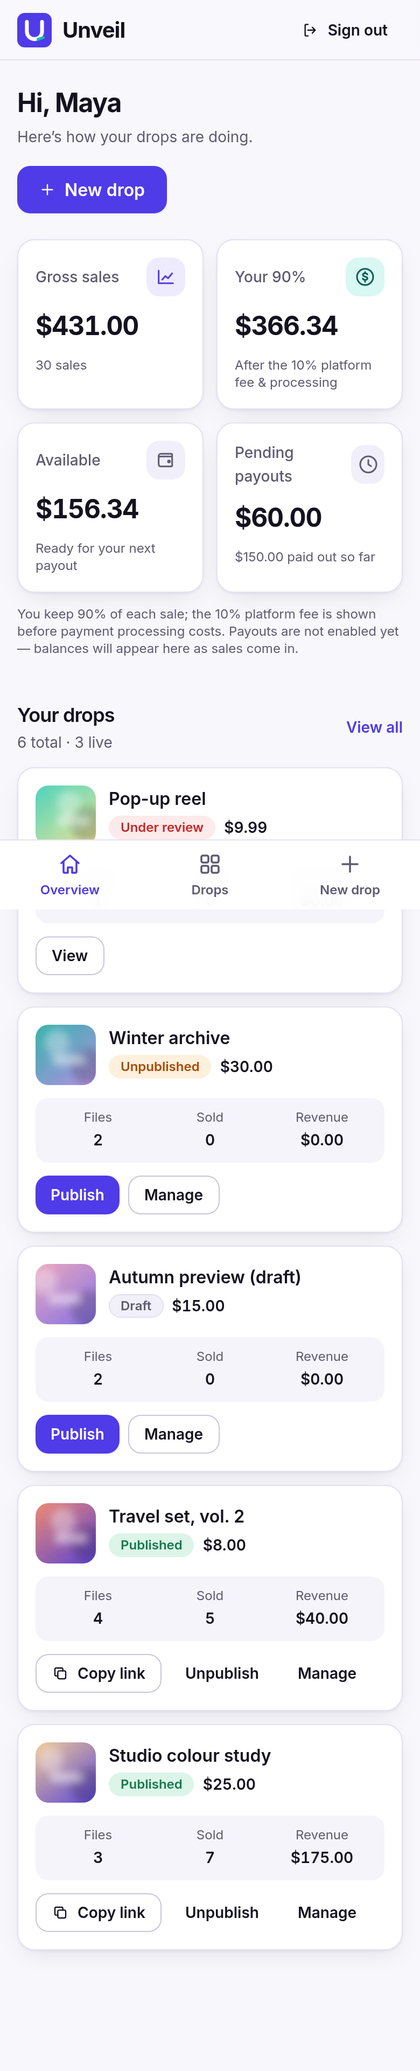
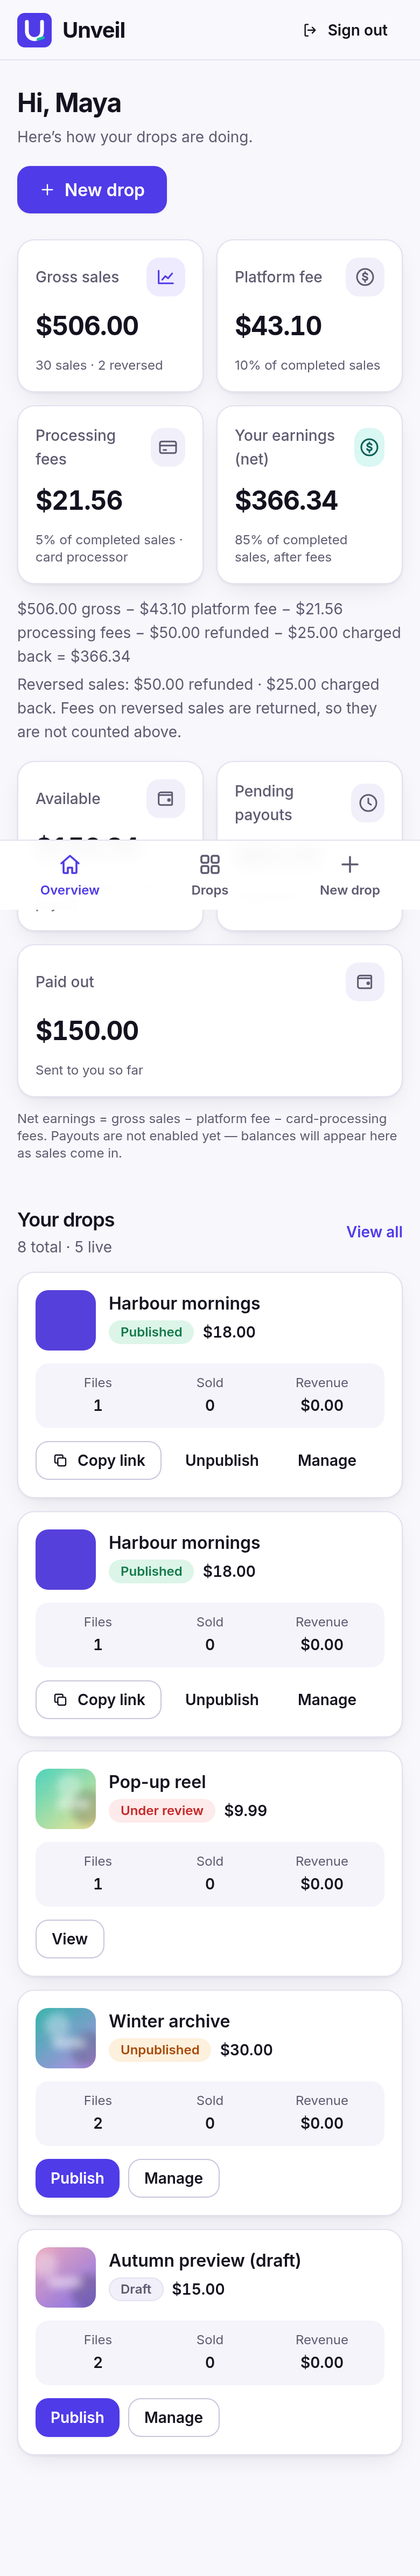
docs/tests/screenshots: QA follow-up notes, e2e checks, retaken screenshots
What changed (FE-01..FE-06 + placeholders; see docs/frontend-dashboard-notes.md "QA follow-up"):
- FE-01 earnings breakdown (gross / platform fee / processing fees / net, available / pending / paid out; refunded and
  charged back shown separately; no hard-coded 90%).
- FE-02 modal returns focus to trigger. FE-03 buyer title '<drop> · Unveil'. FE-04 Verified badge tied to
  sellers.verification_status. FE-05 durations '58 min' / '1 h 12 min'. FE-06 /design 404 in production unless
  ENABLE_DESIGN_PAGE=1. /terms /privacy /dmca /contact 'Coming soon' placeholders (noindex, no legal text).
- Tests: tests/frontend-earnings.test.ts (money breakdown + duration); e2e +1 check (titles, badge toggle, /design 404,
  placeholders). Screenshots retaken: dashboard-overview, drop-unpublish-confirm, drop-publish-attestation-dialog;
  new: signup-429-long-wait, buyer-429-long-wait, placeholder-terms, placeholder-privacy.

How to verify:
  npm ci && npx next typegen && npx tsc --noEmit && npm run lint && npm run build && npm test   (61 unit tests)
  npm run e2e   (47/47; run with no RATE_LIMIT_*/LOGIN_DELAY* in .env)
  Seed: BASE_URL=http://localhost:3400 npx tsx scripts/seed-demo.ts, sign in as maya -> /dashboard:
  $506.00 gross - $43.10 - $21.56 - $50.00 refunded - $25.00 charged back = $366.34 net; Available $156.34; Pending $60.00; Paid $150.00.
  curl -s -o /dev/null -w '%{http_code}' localhost:PORT/design -> 404 in production (200 with ENABLE_DESIGN_PAGE=1).
[…]

diff --git a/scripts/e2e.ts b/scripts/e2e.ts
@@ -610,6 +610,28 @@ const sha = (b: Buffer) => crypto.createHash("sha256").update(b).digest("hex");
     assert(h2.includes("3 files: 3 images"), "3 files wording");
     return "page: title, 'by E2E Seller', '1 file: 1 image', $15.00; 3-file drop shows '3 files: 3 images'";
   });
+  await check("[FE-03/04/06 + placeholders] buyer title '<drop> · Unveil'; Verified badge follows sellers.verification_status; /design 404 in prod; /terms etc. are noindex 'Coming soon'", async () => {
+    const title = (h: string) => (/<title>([^<]*)<\/title>/.exec(h)?.[1] ?? "").replace(/&amp;/g, "&");
+    const h = await (await anon.req("GET", `/u/${p2Link}`)).text();
+    eq(title(h), "Trio · Unveil", "buyer title");
+    assert(h.includes("Verified creator"), "badge for a verified seller");
+    const mail = `multi+${stamp}@example.test`;
+    await db.query("UPDATE sellers SET verification_status='pending' WHERE email=$1", [mail]);
+    const h2 = await (await anon.req("GET", `/u/${p2Link}`)).text();
+    assert(!h2.includes("Verified creator"), "badge hidden once the seller is no longer verified");
+    await db.query("UPDATE sellers SET verification_status='verified' WHERE email=$1", [mail]);
+    const nf = await anon.req("GET", "/u/doesnotexist1");
+    eq(nf.status, 404, "unknown link");
+    eq(title(await nf.text()), "Link unavailable · Unveil", "not-found title");
+    eq((await anon.req("GET", "/design")).status, 404, "/design hidden in production");
+    for (const path of ["/terms", "/privacy", "/dmca", "/contact"]) {
+      const r = await anon.req("GET", path);
+      eq(r.status, 200, `${path} status`);
+      const t = await r.text();
+      assert(t.includes("Coming soon") && /<meta name="robots" content="noindex/.test(t), `${path} placeholder + noindex`);
+    }
+    return "titles ok; badge toggles with verification_status; /design 404; 4 placeholder pages noindex";
+  });
   await check("[#5 M2-09] noindex: meta robots + X-Robots-Tag on link page / public API / previews; robots.txt disallows /u/", async () => {
     const r = await anon.req("GET", `/u/${publicLinkId}`);
     eq(r.headers.get("x-robots-tag"), "noindex, nofollow", "X-Robots-Tag on page");

diff --git a/docs/frontend-dashboard-notes.md b/docs/frontend-dashboard-notes.md
@@ -13,8 +13,9 @@ npm run migrate
 npm run build && bash scripts/dev-start.sh 3400     # or: npm run dev -- -p 3400   (3000 may be taken by another agent)
 npx tsx scripts/seed-demo.ts      # creates 3 sellers via the real API (+ SQL for sales/payouts/flagged) -> .e2e/seed.json
 node scripts/screenshots-dashboard.mjs              # re-takes every screenshot into screenshots/dashboard/
-npm run lint && npm run build && npm test           # all pass;  npm run e2e  (backend regression) still 46/46
+npm run lint && npm run build && npm test           # all pass;  npm run e2e  (backend regression + FE-03/04/06 checks) 47/47
 ```
+`/design` is a 404 in production builds unless `ENABLE_DESIGN_PAGE=1` — start the screenshot server with `ENABLE_DESIGN_PAGE=1 bash scripts/dev-start.sh 3400`.
 Optional `.env` knobs used while capturing screenshots: `LOGIN_DELAY_THRESHOLD=3`, `LOGIN_DELAY_BASE_SECONDS=20`, `LOGIN_DELAY_CAP_SECONDS=60`
 (so the progressive login delay is easy to reach) and relaxed `RATE_LIMIT_LOGIN_IP/SIGNUP_IP/CHECKOUT`.
 `seed-demo` logins: `maya+…@example.test` (verified, populated), `sam+…` (new, empty state), `jo+…` (pending, one draft); password `Sunrise-Harbor-4821` (printed + in `.e2e/seed.json`).
@@ -30,11 +31,11 @@ Wrong password 4× on one email → 429 `login_delayed` → countdown on the but
 | `/signup`, `/login` | Split layout (brand panel on desktop). Inline validation on blur/submit, show/hide password, live strength meter + checklist of the backend's *cheap* rules (≥10 chars, not email/name, no repeats/sequences), server `weak_password` message shown verbatim and marks the meter "Too common"; `email_taken`; generic wrong-credentials message (same for unknown email); network errors; `aria-live` errors, focus moves to the first invalid field / error summary; Google button only if configured. |
 | 429 handling (all auth forms) | `Retry-After` parsed (seconds or HTTP-date) → submit disabled, label becomes "Try again in Ns", visible countdown card, one polite SR announcement at start and end. Distinguishes `login_delayed` (progressive delay) vs `rate_limited`. |
 | `/forgot-password`, `/reset-password` | Same shell/validation/throttle; reset shows strength meter, handles `invalid_token` ("Link expired"), missing token, weak server password. |
-| `/dashboard` | Responsive shell (sidebar ≥1024px; top bar + bottom tab nav on mobile; skip link; sign-out). Earnings cards: **Gross sales**, **Your {100−fee_percent}%** (fee from `platform_settings.fee_percent`, default 10 → "Your 90%"), **Available**, **Pending payouts** (+ paid-out hint). Verification banner, drops table (desktop) / cards (mobile), loading skeleton (`loading.tsx`), error boundary, not-found. |
+| `/dashboard` | Responsive shell (sidebar ≥1024px; top bar + bottom tab nav on mobile; skip link; sign-out). Earnings (see *QA follow-up* below): **Gross sales**, **Platform fee**, **Processing fees**, **Your earnings (net)** + a reconciliation line, then **Available**, **Pending payouts**, **Paid out**. Verification banner, drops table (desktop) / cards (mobile), loading skeleton (`loading.tsx`), error boundary, not-found. |
 | `/dashboard/drops` | Full list with status tabs (All / Published / Drafts / Unpublished / Under review) and counts. Per-drop: thumbnail (blurred preview), status badge (`draft`, `published`, `unpublished`, `flagged`→"Under review"), price, files, **units + revenue**, *Copy link* (published), *Publish* (draft/unpublished; opens attestation dialog), *Unpublish* (confirm modal), *Manage*. |
 | `/dashboard/drops/new` | Title / price (limits from `platform_settings`, live) / description; drag-and-drop + picker; per-file validation (JPG/PNG/WebP, 15 MB image cap from settings, 10 files, 2 GB/drop, duplicates; MP4 recognised but blocked with a "coming soon" message because the backend has no video upload); per-file `XMLHttpRequest` progress bars; retry per file; optional "publish right after upload" with the 3 required attestations (`over18`, `ownsRights`, `consentOfSubjects`); success state with `unveil.link/u/<id>` + copy; graceful draft fallback when the seller isn't verified. |
 | `/dashboard/drops/[id]` | Rebuilt editor: status, share link, stats, blurred previews with sizes, add-more-files dropzone (same validation/progress), publish/unpublish. |
-| `/u/[linkId]` | Landing-style buyer page, mobile-first: blurred hero + thumbnails, lock badge, "Verified creator" badge, title, seller name, description, file count/types, price, terms checkbox, **Buy** button, trust points (secure checkout / instant download / no account), "All sales are final". **Buy stays stubbed**: it calls the existing `POST /api/checkout` (rate-limited, 501) and shows a friendly "Checkout is in test mode — nothing was charged" notice; 429 → countdown on the button. Branded `not-found` ("This link isn't available") also covers unpublished/draft/flagged. |
+| `/u/[linkId]` | Landing-style buyer page, mobile-first: blurred hero + thumbnails, lock badge, "Verified creator" badge (only while the seller is currently `verified`), title, seller name, description, file count/types, price, terms checkbox, **Buy** button, trust points (secure checkout / instant download / no account), "All sales are final". **Buy stays stubbed**: it calls the existing `POST /api/checkout` (rate-limited, 501) and shows a friendly "Checkout is in test mode — nothing was charged" notice; 429 → countdown on the button. Branded `not-found` ("This link isn't available") also covers unpublished/draft/flagged. |
 | Download page | **No such route exists** in the backend (no orders, no buyer signed-URL minting). A presentational `components/buyer/DownloadPanel` is designed and shown on `/design` (and screenshotted) so wiring is trivial once an order flow exists. |
 | `/design` | New sections: Alerts, Stat cards, Progress & skeleton, Tabs & table, Modal/Toast/Checkbox, Empty state, Password strength, Download panel. |
 
@@ -45,7 +46,7 @@ App components: `components/auth/*` (AuthShell, PasswordInput, PasswordStrength,
 ## Backend API gaps / mismatches found (not fixed — out of scope)
 1. **No earnings/payouts/stats API.** No `GET /api/earnings`, `/api/payouts`, `/api/transactions`, or per-drop stats. The dashboard reads aggregates directly from `transactions`/`payouts` in a server component (`src/app/dashboard/data.ts`) — nothing writes those tables yet, so real accounts show $0. Swap for a fetch once an endpoint exists.
 2. **No views counter anywhere** — only units/revenue (from `transactions`) are shown; "views" are omitted.
-3. **`fee_percent` is not exposed by `GET /api/settings`**; the dashboard reads `platform_settings` server-side. Suggest adding `feePercent` to `/api/settings`. Also `transactions.platform_fee_cents`/`processing_fee_cents` are never computed (no fee logic). Labels use "Your {100−fee}%" with the 10% default.
+3. **`fee_percent` is not exposed by `GET /api/settings`**; the dashboard reads `platform_settings` server-side. Suggest adding `feePercent` to `/api/settings`. Also `transactions.platform_fee_cents`/`processing_fee_cents` are never computed (no fee logic). (Superseded: the dashboard no longer hard-codes any percentage — see QA follow-up.)
 4. **Video upload not implemented** (`/api/drops/:id/files` is images-only, 15 MiB cap from `max_image_size_bytes`; `max_video_size_bytes` 500 MiB exists but unused; `/api/settings` doesn't return it). UI accepts `.mp4` selection but blocks it with a clear message (`videoUploadEnabled` flag in `lib/upload-limits.ts`). The spec "500 MB/file" currently only applies to video; **images are capped at 15 MB** on the backend.
 5. **No checkout / order / buyer-download flow** (`POST /api/checkout` → 501). The "self-declared checkbox for flagged drops" is not required by the backend: `/u/<id>` 404s for anything not `published` (flagged included), so no such checkbox is rendered; the terms/"all sales final" checkbox is client-side only (nothing stored).
 6. **Publish requires verification** (`verification_required` 403) and there is no verification flow/UI backend (only `npm run verify-seller`); the UI explains this and keeps drops as drafts.
@@ -53,9 +54,25 @@ App components: `components/auth/*` (AuthShell, PasswordInput, PasswordStrength,
 8. `GET /api/drops` returns snake_case rows without `units/revenue/views/thumbnail`; `GET /api/drops/:id` omits `public_link_id`-based URL. `POST …/files` is buffered in memory and has no progress/resume (client uses XHR upload progress).
 9. `Drop` list/`/api/drops/:id` do not expose `published_at` or attestation info.
 10. `next.config.ts` CSP has `upgrade-insecure-requests` in production builds: on plain `http://localhost` this makes Chromium retry some sub-requests/prefetches over https (harmless, but breaks `networkidle` waits and shows `ERR_SSL_PROTOCOL_ERROR` in the console when testing a prod build locally).
-11. `/terms`, `/privacy`, `/dmca`, `/contact` are linked from the landing footer, signup and buyer page but the pages do not exist (404).
+11. ~~`/terms`, `/privacy`, `/dmca`, `/contact` do not exist (404)~~ — now "Coming soon" placeholders (noindex), no legal text; real content still needed.
 12. Landing header links to `/signin` (redirect to `/login` exists in `next.config.ts`) — fine, noted only.
+
+## QA follow-up (QA run on `faa38d4`, report `qa/results-frontend-dashboard-1.md`)
+| ID | What changed | How to verify |
+|---|---|---|
+| **FE-01** (Medium) | Overview shows **Gross sales**, **Platform fee**, **Processing fees** (separate cards, each with its real % of completed sales), **Your earnings (net)** (no more "Your 90%"; the % shown is computed, e.g. 85% in the seed), a reconciliation line `gross − platform fee − processing fees [− refunded] [− charged back] = net`, and a *Reversed sales: $X refunded · $Y charged back* line (refunds and chargebacks are separate everywhere; `charged_back` is no longer counted as "refunded"). Second row: **Available**, **Pending payouts**, **Paid out**. Math lives in `lib/earnings.ts` (unit-tested). | `BASE_URL=http://localhost:3400 npx tsx scripts/seed-demo.ts`, sign in as maya → `/dashboard`: $506.00 gross (30 sales + one $50 refunded + one $25 charged-back row) − $43.10 − $21.56 − $50.00 − $25.00 = **$366.34**; Available $156.34, Pending $60.00, Paid out $150.00 (same numbers QA reconciled; the reversed rows do not change fees/net). `npm test` → `tests/frontend-earnings.test.ts`. |
+| FE-02 | `Modal` remembers the element focused when it opened and returns focus to it on close (Esc, X, Cancel/Keep, backdrop; also if the parent unmounts the dialog). `DropList`'s row actions were a component defined inside render (remounted on every state change, which destroyed the trigger) — now a plain render helper. | `/dashboard/drops` → Tab to *Unpublish* or *Publish* → Enter → Esc: `document.activeElement` is that button again. |
+| FE-03 | `/u/[linkId]` uses `generateMetadata`: title = drop title → `<title>Sunset set · Unveil</title>`; unavailable link → `Link unavailable · Unveil`. | `curl -s localhost:3400/u/<id> \| grep -o '<title>[^<]*'` (also an e2e check). |
+| FE-04 | Seller query now reads `verification_status`; badge renders only when it is `verified` (hidden for pending/failed/manual_review/unknown seller), evaluated per request (page is `force-dynamic`). | Set `sellers.verification_status='pending'` for a seller with a live drop → reload `/u/<id>`: no badge (e2e check toggles it). |
+| FE-05 | `formatDuration` (`lib/format.ts`): ≤120 s stays `45s`; then `5 min`, `58 min`, `1 h 12 min`, `2 h` (rounded **up**). Used in the button label, the throttle card, and the Buy button. Screen-reader text uses the long form ("1 hour 12 minutes") and is announced once at start and end (the ticking number stays `aria-hidden`). | Screenshots `signup-429-long-wait-*`, `buyer-429-long-wait-*`; `npm test`. |
+| FE-06 | `/design` calls `notFound()` when `NODE_ENV==='production'` unless `ENABLE_DESIGN_PAGE=1` (page is `force-dynamic`, so the env var is read at request time). Documented in `.env.example`. | `curl -o /dev/null -w '%{http_code}' localhost:3400/design` → 404 (200 with the flag); e2e check. |
+| Placeholders | `/terms`, `/privacy`, `/dmca`, `/contact`: shared `ComingSoon` page ("Coming soon." + back link), `robots: noindex`, no legal wording. The footer / signup / Buy-flow links now resolve. | Click *Terms* on a buyer page; screenshots `placeholder-terms-*`, `placeholder-privacy-*`. |
+
+### Earnings data source — IMPORTANT
+`GET /api/earnings` does **not exist on this branch's base (`main` @ `94af2c0`)**; it lives on `origin/payments/abstraction` (ledger-based). Merging that backend branch here was out of scope, so `src/app/dashboard/data.ts` keeps reading `transactions`/`payouts` directly but now produces the **same semantics as that endpoint's `lifetime` totals**: fee totals are net of fee shares returned on refunds/chargebacks (a reversed sale contributes 0 fees), `refunded` and `chargeback` are separate gross amounts, and refunds are subtracted **once** (from gross) — never again from the fees. On this base a reversal is always a full reversal (`transactions.status`), so the numbers reconcile exactly with the ledger model. Once payments lands, replace `getEarnings` with a fetch of `/api/earnings` and map `lifetime.{grossCents, platformFeeCents, processingFeeCents, refundedCents, chargebackCents, paidOutCents, requestedPayoutCents}` + `balance.{availableCents,pendingCents}` into `EarningsTotals` (`lib/earnings.ts`); the UI needs no other change. Note that payments' `balance.pendingCents` means *held for N days*, whereas the card here labelled **Pending payouts** means *payouts requested but not yet paid* (this base has no hold period) — add a "Pending (in hold)" card at that point.
 
 ## Screenshots
 `screenshots/dashboard/<name>-mobile-390x844.png` (2× DPR) and `<name>-desktop-1280x800.png`, full-page, produced by `scripts/screenshots-dashboard.mjs` (list in `screenshots/dashboard/INDEX.md`; horizontal-overflow audit at 360/390/1280 in `overflow-report.json` — all 0px).
 Notes: the signup 429 screenshot uses a mocked 429 response (same shape as the real `SIGNUP_IP` limiter: `429`, `Retry-After`, `{code:"rate_limited"}`); the sign-in lockout shots use the **real** progressive login delay.
+
+Retaken for the QA follow-up: `dashboard-overview`, `drop-unpublish-confirm`, `drop-publish-attestation-dialog`; new: `signup-429-long-wait`, `buyer-429-long-wait`, `placeholder-terms`, `placeholder-privacy`. `seed-demo` now also inserts one refunded and one charged-back sale for maya.

diff --git a/screenshots/dashboard/INDEX.md b/screenshots/dashboard/INDEX.md
@@ -2,12 +2,13 @@
 
 Pairs: `<name>-mobile-390x844.png` (2x DPR) and `<name>-desktop-1280x800.png`. Full-page unless noted (dialogs are viewport shots).
 
+- buyer-429-long-wait
 - buyer-checkout-test-mode
 - buyer-draft-not-found
 - buyer-needs-confirmation
 - buyer-not-found
-- buyer-published-3-files
 - buyer-published
+- buyer-published-3-files
 - buyer-unpublished
 - dashboard-empty-state
 - dashboard-overview
@@ -19,10 +20,10 @@ Pairs: `<name>-mobile-390x844.png` (2x DPR) and `<name>-desktop-1280x800.png`. F
 - drop-detail-not-found
 - drop-detail-pending-verification
 - drop-detail-published
+- drop-list
 - drop-list-empty
 - drop-list-filter-drafts
 - drop-list-filter-under-review
-- drop-list
 - drop-publish-attestation-dialog
 - drop-unpublish-confirm
 - forgot-password
@@ -37,19 +38,22 @@ Pairs: `<name>-mobile-390x844.png` (2x DPR) and `<name>-desktop-1280x800.png`. F
 - new-drop-success-draft
 - new-drop-success-published
 - new-drop-validation-errors
+- placeholder-privacy
+- placeholder-terms
+- reset-password
 - reset-password-invalid-token
 - reset-password-missing-token
-- reset-password
 - reset-password-weak-server
+- signin
 - signin-lockout-countdown
 - signin-lockout-countdown-ticking
-- signin
 - signin-network-error
 - signin-validation-errors
 - signin-wrong-credentials
+- signup
+- signup-429-long-wait
 - signup-429-rate-limited
 - signup-email-taken
-- signup
 - signup-pattern-rule
 - signup-strong-password
 - signup-validation-errors
